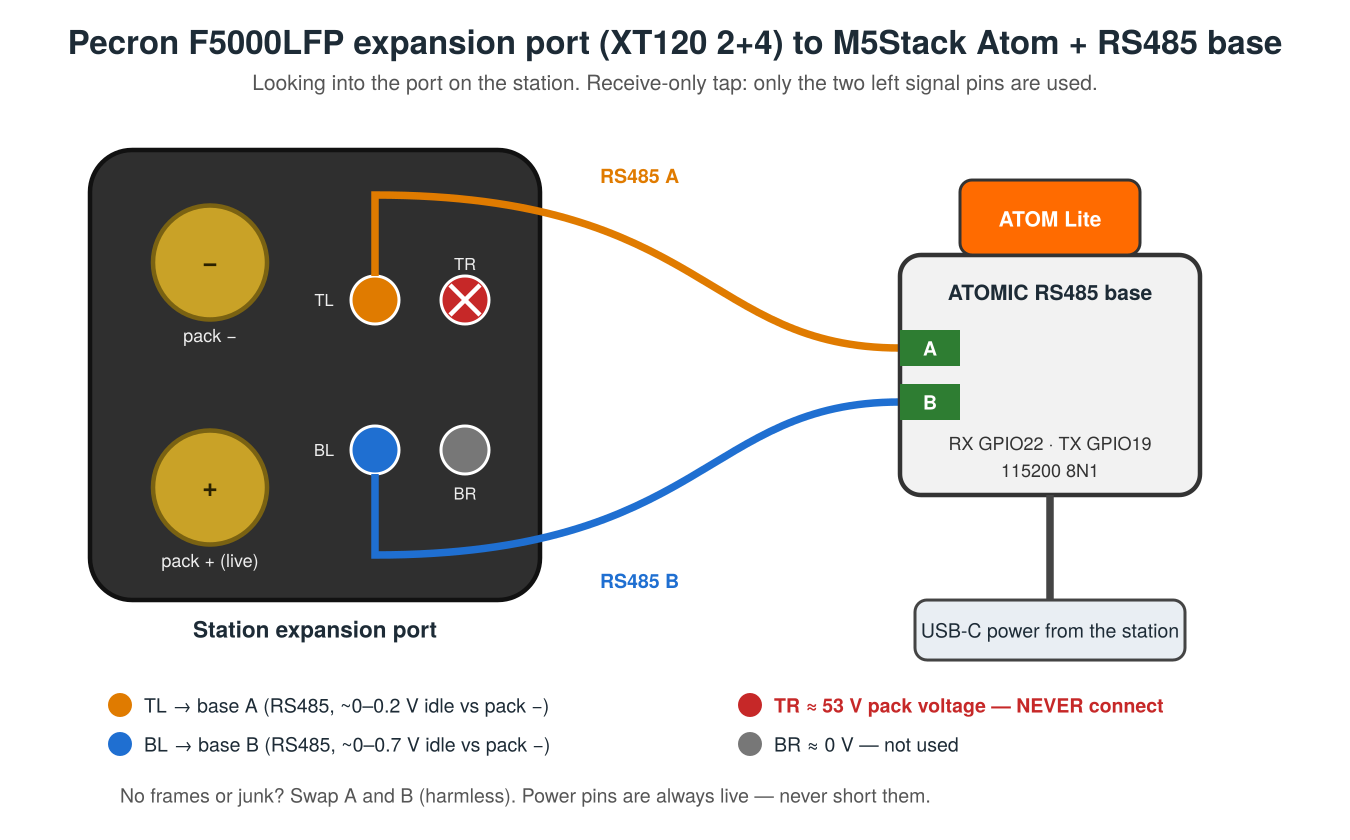
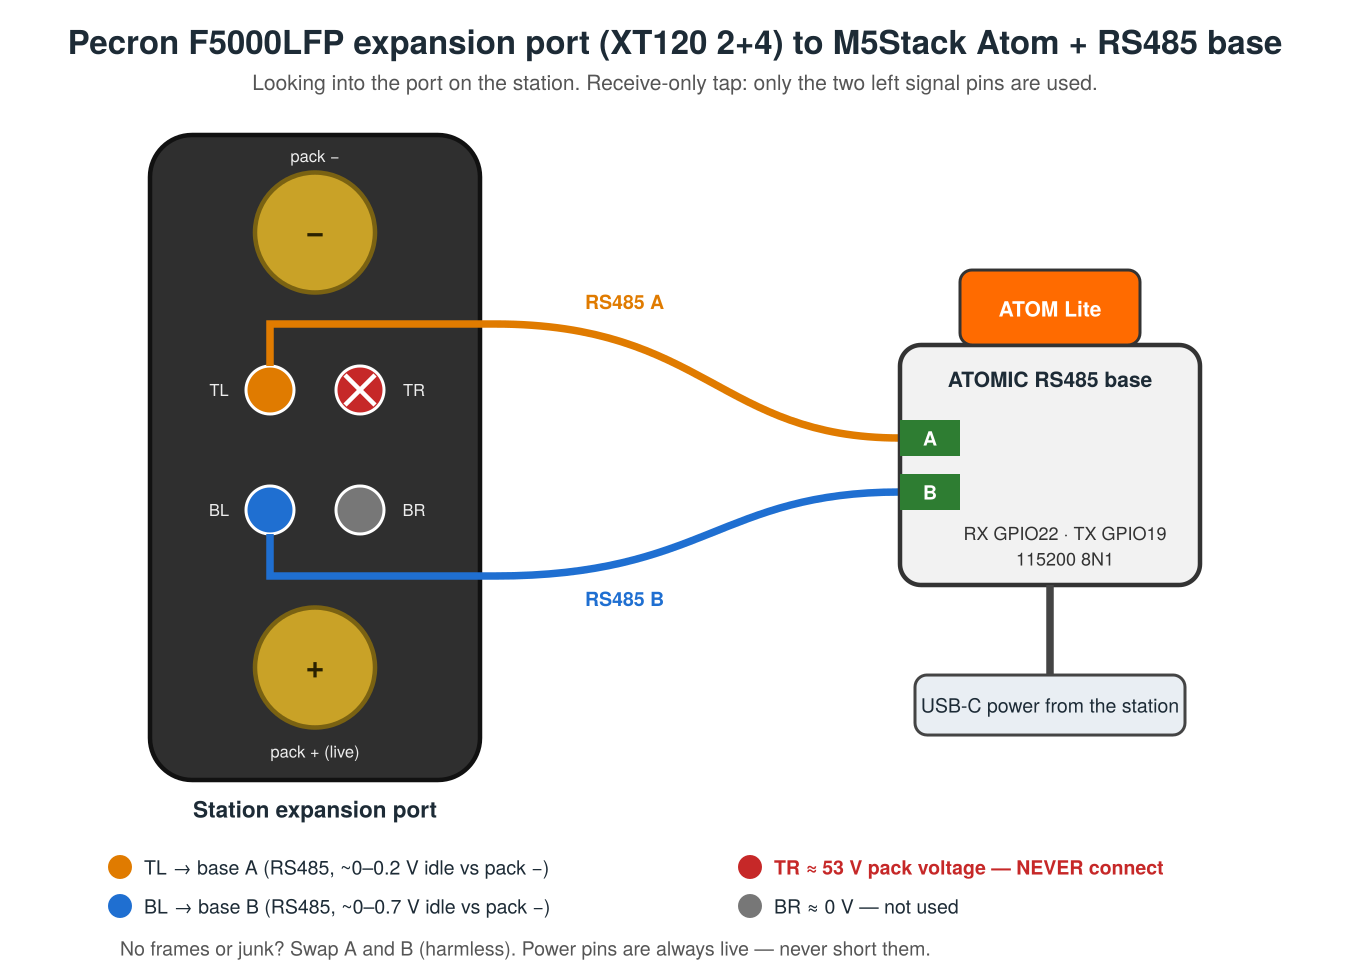
Wiring: power pins above and below the signal block (confirmed layout)
Claude-Session: https://claude.ai/code/session_018iRapJWV6RXNGTfzEEVK9C

diff --git a/README.md b/README.md
@@ -47,8 +47,8 @@ Looking into the expansion port on the station:
 | Signal bottom-left (BL) | RS485, ~0–0.7 V idle | RS485 base **B** |
 | Signal top-right (TR) | **≈ 53 V pack voltage** | **Nothing — never connect** |
 | Signal bottom-right (BR) | ≈ 0 V | Not used |
-| Large top pin | Pack − | Not used |
-| Large bottom pin | Pack + (always live) | Not used |
+| Large pin above the signal block | Pack − | Not used |
+| Large pin below the signal block | Pack + (always live) | Not used |
 
 - **A/B polarity:** RS485 A/B labelling varies between vendors. If you see no valid frames
   or rising junk bytes, swap A and B — it is harmless.
